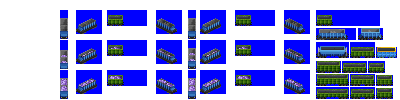
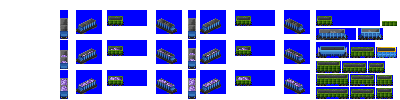
Change: dump car generations

diff --git a/src/vehicles/dump_cars.py b/src/vehicles/dump_cars.py
@@ -5,7 +5,7 @@ from train import DumpConsist, FreightCar
 def main():
     #--------------- pony ----------------------------------------------------------------------
     consist = DumpConsist(roster='pony',
-                          base_numeric_id=1340,
+                          base_numeric_id=2350,
                           gen=3,
                           subtype='A')
 
@@ -24,13 +24,89 @@ def main():
                               graphics_processor=consist.graphics_processors[1])
 
     consist = DumpConsist(roster='pony',
-                          base_numeric_id=1810,
-                          gen=4,
-                          subtype='A')
+                          base_numeric_id=2360,
+                          gen=3,
+                          subtype='B')
 
     consist.add_unit(type=FreightCar,
                      capacity=40,
                      vehicle_length=6)
+
+    consist.add_model_variant(start_date=0,
+                              end_date=global_constants.max_game_date,
+                              spritesheet_suffix=0,
+                              graphics_processor=consist.graphics_processors[0])
+
+    consist.add_model_variant(start_date=0,
+                              end_date=global_constants.max_game_date,
+                              spritesheet_suffix=1,
+                              graphics_processor=consist.graphics_processors[1])
+
+    consist = DumpConsist(roster='pony',
+                          base_numeric_id=2370,
+                          gen=4,
+                          subtype='A')
+
+    consist.add_unit(type=FreightCar,
+                     capacity=20,
+                     vehicle_length=4)
+
+    consist.add_model_variant(start_date=0,
+                              end_date=global_constants.max_game_date,
+                              spritesheet_suffix=0,
+                              graphics_processor=consist.graphics_processors[0])
+
+    consist.add_model_variant(start_date=0,
+                              end_date=global_constants.max_game_date,
+                              spritesheet_suffix=1,
+                              graphics_processor=consist.graphics_processors[1])
+
+    consist = DumpConsist(roster='pony',
+                          base_numeric_id=2380,
+                          gen=4,
+                          subtype='B')
+
+    consist.add_unit(type=FreightCar,
+                     capacity=40,
+                     vehicle_length=6)
+
+    consist.add_model_variant(start_date=0,
+                              end_date=global_constants.max_game_date,
+                              spritesheet_suffix=0,
+                              graphics_processor=consist.graphics_processors[0])
+
+    consist.add_model_variant(start_date=0,
+                              end_date=global_constants.max_game_date,
+                              spritesheet_suffix=1,
+                              graphics_processor=consist.graphics_processors[1])
+
+    consist = DumpConsist(roster='pony',
+                          base_numeric_id=1340,
+                          gen=5,
+                          subtype='A')
+
+    consist.add_unit(type=FreightCar,
+                     capacity=20,
+                     vehicle_length=6)
+
+    consist.add_model_variant(start_date=0,
+                              end_date=global_constants.max_game_date,
+                              spritesheet_suffix=0,
+                              graphics_processor=consist.graphics_processors[0])
+
+    consist.add_model_variant(start_date=0,
+                              end_date=global_constants.max_game_date,
+                              spritesheet_suffix=1,
+                              graphics_processor=consist.graphics_processors[1])
+
+    consist = DumpConsist(roster='pony',
+                          base_numeric_id=1810,
+                          gen=5,
+                          subtype='B')
+
+    consist.add_unit(type=FreightCar,
+                     capacity=40,
+                     vehicle_length=8)
 
     consist.add_model_variant(start_date=0,
                               end_date=global_constants.max_game_date,
